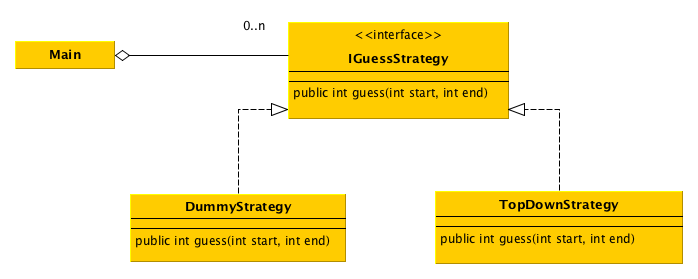
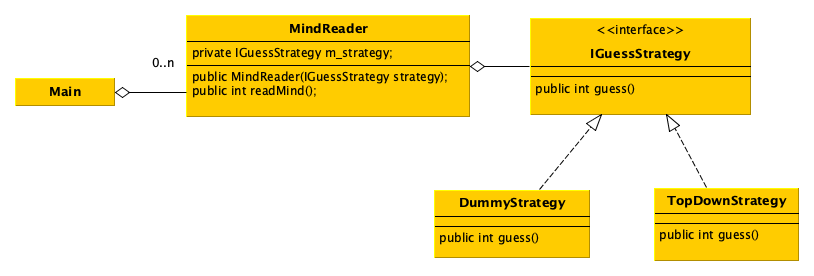
working towards SP19

diff --git a/Module2/Strategy/Guess/src/Main.java b/Module2/Strategy/Guess/src/Main.java
@@ -11,33 +11,41 @@ public class Main
     
     public void go()
     {
-        int start = 1;
-        int end = 10;
-        int ans = m_rand.nextInt(end-start) + start;
-
+        int ans = m_rand.nextInt(100) +1;
+        System.out.printf("Start the game, don't tell anyone but the answer is %s%n", ans);
+        
         int guess1 = -1;
         int guess2 = -1;
-        
-        System.out.printf("Start the game, don't tell anyone but the answer is %s%n", ans);
 
-        IGuessStrategy strategy1 = new DummyStrategy();
-        IGuessStrategy strategy2 = new TopDownStrategy();
+        MindReader tom = makeTomTheReader();
+        MindReader sally = makeSallyTheReader();
     
         do
         {
-            guess1 = strategy1.guess(start, end);
-            guess2 = strategy2.guess(start, end);
+            guess1 = tom.readMind();
+            guess2 = sally.readMind();
             
-            System.out.printf("Strategy 1 guessed %s%n", guess1);
-            System.out.printf("Strategy 2 guessed %s%n", guess2);
+            System.out.printf("Tom guessed %s%n", guess1);
+            System.out.printf("Sally guessed %s%n", guess2);
             
         } while (guess1 != ans && guess2 !=ans);
             
         if (guess1 == ans)
-            System.out.println("Strategy 1 wins!");  
+            System.out.println("Tom wins!");  
 
         if (guess2 == ans)
-            System.out.println("Strategy 2 wins!");  
+            System.out.println("Sally wins!");  
 
     }
+    
+    private MindReader makeTomTheReader()
+    {
+        return new MindReader(new DummyStrategy());
+    }
+    
+    private MindReader makeSallyTheReader()
+    {
+        return new MindReader(new TopDownStrategy());
+    }
+    
 }

diff --git a/Module2/Strategy/Guess/src/TopDownStrategy.java b/Module2/Strategy/Guess/src/TopDownStrategy.java
@@ -1,18 +1,14 @@
 public class TopDownStrategy implements IGuessStrategy
 {
-    private int m_lastGuess = -1;
+    private int m_lastGuess = 0;
     
     @Override
-    public int guess(int start, int end)
+    public int guess()
     {
-        if (m_lastGuess == -1)
-            m_lastGuess = end;
+        if (m_lastGuess <= 0)
+            m_lastGuess = 100;
         else
             m_lastGuess = m_lastGuess - 1;
-            
-        if (m_lastGuess < start)
-            throw new IllegalStateException("Stop asking!!");
-            
         return m_lastGuess;
     }
 }

diff --git a/Module2/Strategy/Guess/src/DummyStrategy.java b/Module2/Strategy/Guess/src/DummyStrategy.java
@@ -1,8 +1,12 @@
+import java.util.*;
+
 public class DummyStrategy implements IGuessStrategy
 {
+    private Random m_rand = new Random();
+    
     @Override
-    public int guess(int start, int end)
+    public int guess()
     {
-        return (int)((end-start+1)/2.0);
+        return m_rand.nextInt(100) + 1;
     }
 }

diff --git a/Module2/Strategy/Guess/src/MindReader.java b/Module2/Strategy/Guess/src/MindReader.java
@@ -1,0 +1,14 @@
+public class MindReader
+{
+    private IGuessStrategy m_strategy;
+    
+    public MindReader(IGuessStrategy strategy)
+    {
+        m_strategy = strategy;
+    }
+    
+    public int readMind()
+    {
+        return m_strategy.guess();
+    }
+}

diff --git a/Module2/Strategy/Guess/src/IGuessStrategy.java b/Module2/Strategy/Guess/src/IGuessStrategy.java
@@ -1,4 +1,4 @@
 public interface IGuessStrategy
 {
-    public int guess(int start, int end); // inclusive
+    public int guess();
 }
